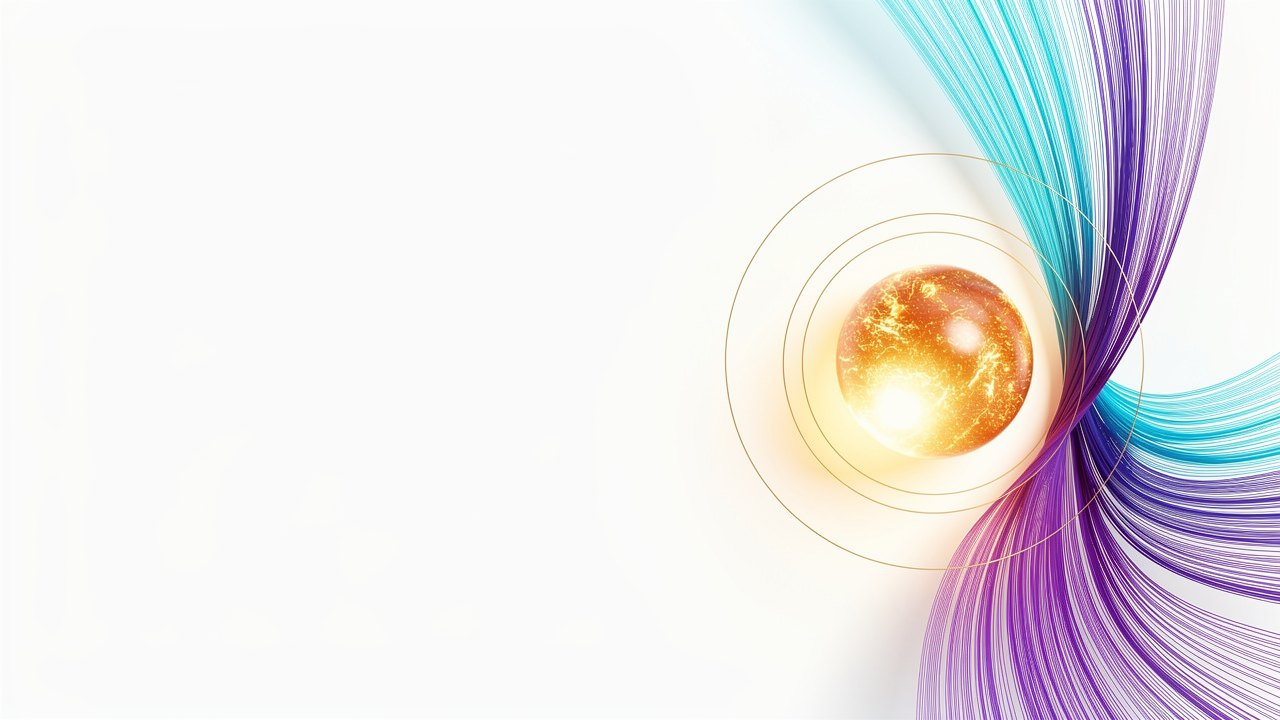
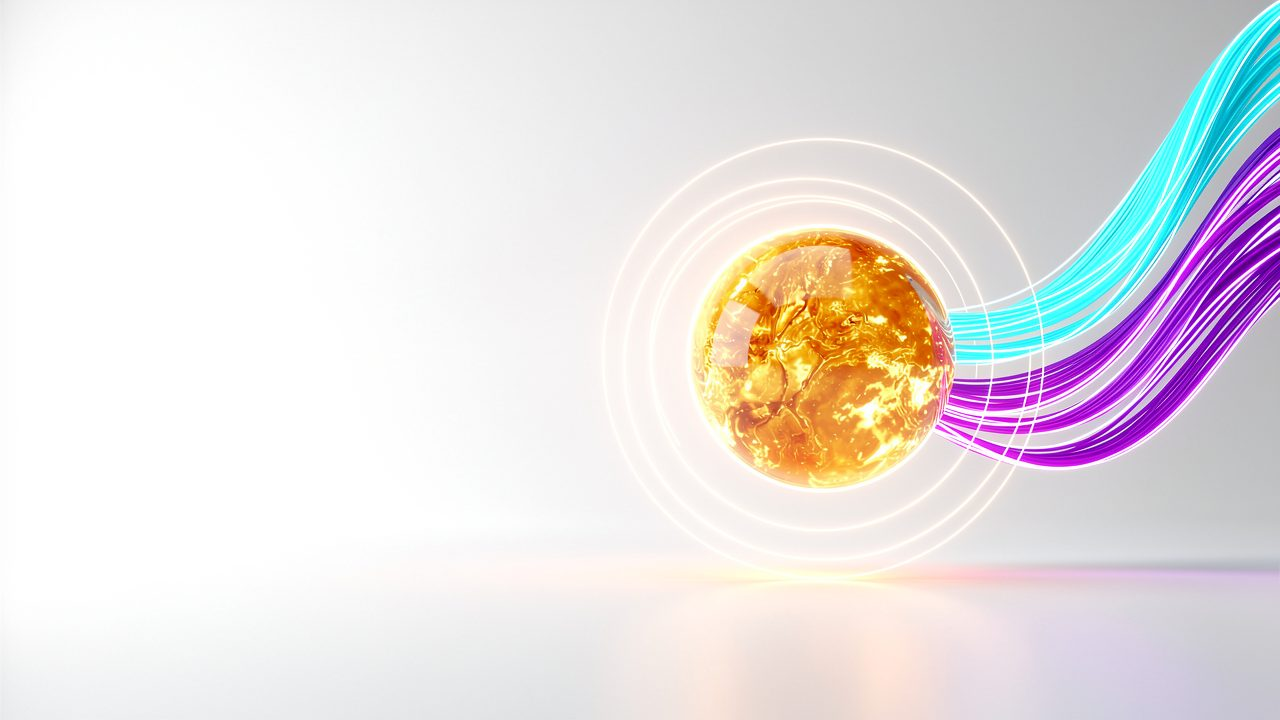
chore: publish site update

diff --git a/index.html b/index.html
@@ -250,39 +250,7 @@
         </div>
 
         <div class="conv-visual reveal" aria-hidden="true">
-          <svg class="conv-graph" viewBox="-80 0 840 320" aria-hidden="true" focusable="false">
-            <defs>
-              <linearGradient id="convOut" gradientUnits="userSpaceOnUse" x1="470" y1="160" x2="720" y2="230">
-                <stop offset="0" stop-color="#18C8E6"/><stop offset="1" stop-color="#5B4BDB"/>
-              </linearGradient>
-            </defs>
-            <g fill="none" stroke-linecap="round" stroke-linejoin="round">
-              <g class="edge-in" stroke="#475569" stroke-width="2.6">
-                <path pathLength="1" d="M120 40 L470 160"/>
-                <path pathLength="1" d="M120 100 L470 160"/>
-                <path pathLength="1" d="M120 160 L470 160"/>
-                <path pathLength="1" d="M120 220 L470 160"/>
-                <path pathLength="1" d="M120 280 L470 160"/>
-              </g>
-              <path class="edge-out" pathLength="1" d="M470 160 L720 230" stroke="url(#convOut)" stroke-width="4"/>
-              <path class="edge-out arrow" pathLength="1" d="M720 230 L709.2 218.2 M720 230 L704.6 234.5" stroke="#5B4BDB" stroke-width="4"/>
-            </g>
-            <g class="conv-labels mono">
-              <text x="104" y="44" text-anchor="end" data-i18n="conv_l1">AUTOMATION</text>
-              <text x="104" y="104" text-anchor="end" data-i18n="conv_l2">INTEGRATION</text>
-              <text x="104" y="164" text-anchor="end" data-i18n="conv_l3">AI AGENTS</text>
-              <text x="104" y="224" text-anchor="end" data-i18n="conv_l4">ANALYTICS</text>
-              <text x="104" y="284" text-anchor="end" data-i18n="conv_l5">OPTIMIZATION</text>
-              <text x="612" y="210" text-anchor="start" class="label-out" data-i18n="conv_lout">FLOW OF VALUE</text>
-            </g>
-            <g class="node-in" fill="#475569">
-              <circle cx="120" cy="40" r="7"/><circle cx="120" cy="100" r="7"/><circle cx="120" cy="160" r="7"/>
-              <circle cx="120" cy="220" r="7"/><circle cx="120" cy="280" r="7"/>
-            </g>
-            <circle class="node-halo" cx="470" cy="160" r="34" fill="none" stroke="#FFB23E" stroke-width="1.4" opacity="0.32"/>
-            <circle class="node-core" cx="470" cy="160" r="24" fill="#FFB23E"/>
-            <circle class="node-spark" cx="470" cy="160" r="9" fill="#FFE0A8"/>
-          </svg>
+          <img src="assets/nova-flow.jpg" alt="" width="1280" height="720" loading="lazy" decoding="async">
         </div>
       </div>
     </section>
@@ -300,13 +268,13 @@
           <li class="case-card reveal">
             <p class="case-tag mono" data-i18n="case1_tag">MULTI-AGENT · OPERATIONS</p>
             <h3 data-i18n="case1_t">An operations department that never sleeps</h3>
-            <p data-i18n="case1_p">Corina AI runs 12+ specialized agents 24/7 — ticket triage, technician dispatch, billing and customer comms across WhatsApp, Telegram, voice and email — for a managed-print fleet of 3,000+ devices.</p>
+            <p data-i18n="case1_p">Our multi-agent platform runs 12+ specialized agents 24/7 — ticket triage, technician dispatch, billing and customer comms across WhatsApp, Telegram, voice and email — for a managed-print fleet of 3,000+ devices.</p>
             <p class="case-metric" data-i18n-html="case1_m"><strong>99.4%</strong> automated reconciliation across 23,000+ legacy invoices</p>
           </li>
           <li class="case-card reveal">
             <p class="case-tag mono" data-i18n="case2_tag">VOICE AI · TELEPHONY</p>
             <h3 data-i18n="case2_t">AI receptionists on real phone lines</h3>
-            <p data-i18n="case2_p">VoxAI answers business lines for logistics, HVAC and healthcare clients — bilingual EN/ES agents with multi-destination PBX routing, guardrails and post-call actions. Provider migration with zero reported downtime.</p>
+            <p data-i18n="case2_p">Our voice AI agents answer business lines for logistics, HVAC and healthcare clients — bilingual EN/ES agents with multi-destination PBX routing, guardrails and post-call actions. Provider migration with zero reported downtime.</p>
             <p class="case-metric" data-i18n-html="case2_m"><strong>4+</strong> live lines · bilingual EN/ES · 24/7</p>
           </li>
           <li class="case-card reveal">
@@ -412,28 +380,28 @@
         <header class="section-head reveal">
           <p class="kicker" data-i18n="port_kicker">Portfolio</p>
           <h2 id="portfolio-title" data-i18n="port_title">Our products run on the same flow.</h2>
-          <p class="section-lede" data-i18n="port_lede">We don't only build for clients — we run our own platforms on the same automated flow, as named nodes under the NovAIFlow umbrella.</p>
+          <p class="section-lede" data-i18n="port_lede">We don't only build for clients — we run these platforms ourselves on the same automated flow, and offer them directly to you.</p>
         </header>
 
         <ul class="node-grid" role="list">
           <li class="node-card reveal">
             <span class="node-dot" aria-hidden="true"></span>
-            <h3>Corina AI</h3>
+            <h3 data-i18n="port1_t">AI Operations Platform</h3>
             <p data-i18n="port1">A multi-agent platform — orchestrated intelligence for real operations.</p>
           </li>
           <li class="node-card reveal">
             <span class="node-dot" aria-hidden="true"></span>
-            <h3>VoxAI</h3>
+            <h3 data-i18n="port2_t">Voice AI Agents</h3>
             <p data-i18n="port2">Enterprise voice agents — bilingual AI on real phone lines, in production.</p>
           </li>
           <li class="node-card reveal">
             <span class="node-dot" aria-hidden="true"></span>
-            <h3>XG Suite</h3>
+            <h3 data-i18n="port3_t">Logistics Control Tower</h3>
             <p data-i18n="port3">A logistics &amp; 3PL platform — control tower, CRM, comms and master data.</p>
           </li>
           <li class="node-card reveal">
             <span class="node-dot" aria-hidden="true"></span>
-            <h3>xpro.cloud</h3>
+            <h3 data-i18n="port4_t">Managed Cloud &amp; Hosting</h3>
             <p data-i18n="port4">The infrastructure &amp; hosting layer — operated, observed and secured.</p>
           </li>
         </ul>

diff --git a/styles.css b/styles.css
@@ -272,9 +272,9 @@ main:focus{outline:none}
 .conv-copy h2{font-size:clamp(1.8rem,3.6vw,2.7rem);margin-bottom:1.1rem}
 .conv-copy p{color:var(--nf-mist);margin-bottom:1rem}
 .conv-claim{font-size:var(--fs-xl);color:var(--nf-paper)}
-.conv-graph{width:100%;height:auto}
-.conv-labels text{fill:var(--nf-mist);font-family:var(--nf-font-mono);font-size:15px;letter-spacing:var(--tracking-label);font-weight:500}
-.conv-labels .label-out{fill:var(--nf-cyan)}
+.conv-visual img{width:100%;height:auto;display:block;
+  -webkit-mask-image:radial-gradient(88% 72% at 50% 50%,#000 30%,transparent 82%);
+  mask-image:radial-gradient(88% 72% at 50% 50%,#000 30%,transparent 82%)}
 
 /* ---------- Case studies ---------- */
 .cases{border-top:1px solid var(--nf-line-soft)}
@@ -371,25 +371,6 @@ html.js :where(.reveal){opacity:0;transform:translateY(22px);transition:opacity 
 .card-grid .reveal.in,.node-grid .reveal.in,.industry-grid .reveal.in,.flowline .reveal.in,
 .stat-band .reveal.in,.case-grid .reveal.in{transition-delay:var(--d,0ms)}
 
-/* SVG graph draw-in (triggered by .draw on the parent svg) */
-html.js :where(.edge-in path,.edge-out){stroke-dasharray:1;stroke-dashoffset:1;transition:stroke-dashoffset 1s var(--ease-flow)}
-html.js :where(.node-in circle,.node-halo,.node-core,.node-spark,.node-glow){opacity:0}
-.draw .edge-in path,.draw .edge-out{stroke-dashoffset:0}
-.draw .edge-in path:nth-child(1){transition-delay:.05s}
-.draw .edge-in path:nth-child(2){transition-delay:.13s}
-.draw .edge-in path:nth-child(3){transition-delay:.21s}
-.draw .edge-in path:nth-child(4){transition-delay:.29s}
-.draw .edge-in path:nth-child(5){transition-delay:.37s}
-.draw .edge-out{transition:stroke-dashoffset .8s var(--ease-flow);transition-delay:.6s}
-.draw .node-in circle{opacity:1;transition:opacity .5s var(--ease-flow)}
-.draw .node-glow{opacity:1;transition:opacity 1s var(--ease-flow) .55s}
-.draw .node-halo{opacity:.32;transition:opacity .6s var(--ease-flow) .55s}
-.draw .node-core{opacity:1;transition:opacity .5s var(--ease-flow) .55s}
-.draw .node-spark{opacity:1;transition:opacity .6s var(--ease-flow) .7s}
-html.js :where(.conv-labels){opacity:0;transition:opacity .6s var(--ease-flow) .5s}
-.draw .conv-labels{opacity:1}
-/* no-js: .node-halo keeps its inline opacity="0.32" SVG attribute — no extra rule needed */
-
 /* ============================================================
    Responsive
    ============================================================ */
@@ -409,7 +390,6 @@ html.js :where(.conv-labels){opacity:0;transition:opacity .6s var(--ease-flow) .
   .brand-word{font-size:var(--fs-base)}
   .proof-head{flex-direction:column;align-items:flex-start;gap:.35rem}
   .section-lede{font-size:var(--fs-base)}
-  .conv-labels text{font-size:13px}
   .stat-band{grid-template-columns:repeat(2,1fr)}
   /* vertical flowline: per-step connector segments (no overshoot) */
   .flowline{grid-template-columns:1fr;gap:0}
@@ -440,7 +420,4 @@ html.js :where(.conv-labels){opacity:0;transition:opacity .6s var(--ease-flow) .
   *,*::before,*::after{animation:none!important;transition:none!important}
   html .reveal{opacity:1;transform:none}
   html .plx,html [data-plx]{transform:none!important}
-  html .edge-in path,html .edge-out{stroke-dashoffset:0}
-  html .node-in circle,html .node-halo,html .node-core,html .node-spark,html .node-glow,html .conv-labels{opacity:1}
-  html .node-halo{opacity:.32}
 }

diff --git a/main.js b/main.js
@@ -47,17 +47,16 @@
       conv_title: 'Most firms sell you one tool. We deliver the whole flow.',
       conv_p: 'Point tools leave you exporting spreadsheets, stitching apps together and chasing data across systems. NovAIFlow unifies your systems, data and tasks into one automated, AI-powered flow — then keeps it running.',
       conv_claim: '<strong>Many systems in. One flow of value out.</strong>',
-      conv_l1: 'AUTOMATION', conv_l2: 'INTEGRATION', conv_l3: 'AI AGENTS', conv_l4: 'ANALYTICS', conv_l5: 'OPTIMIZATION', conv_lout: 'FLOW OF VALUE',
       case_kicker: 'Case studies',
       case_title: 'Real systems. Real operations. Running today.',
       case_lede: 'A selection of flows we designed, built and operate — on our own platforms and for clients in logistics, healthcare, compliance and SaaS.',
       case1_tag: 'MULTI-AGENT · OPERATIONS',
       case1_t: 'An operations department that never sleeps',
-      case1_p: 'Corina AI runs 12+ specialized agents 24/7 — ticket triage, technician dispatch, billing and customer comms across WhatsApp, Telegram, voice and email — for a managed-print fleet of 3,000+ devices.',
+      case1_p: 'Our multi-agent platform runs 12+ specialized agents 24/7 — ticket triage, technician dispatch, billing and customer comms across WhatsApp, Telegram, voice and email — for a managed-print fleet of 3,000+ devices.',
       case1_m: '<strong>99.4%</strong> automated reconciliation across 23,000+ legacy invoices',
       case2_tag: 'VOICE AI · TELEPHONY',
       case2_t: 'AI receptionists on real phone lines',
-      case2_p: 'VoxAI answers business lines for logistics, HVAC and healthcare clients — bilingual EN/ES agents with multi-destination PBX routing, guardrails and post-call actions. Provider migration with zero reported downtime.',
+      case2_p: 'Our voice AI agents answer business lines for logistics, HVAC and healthcare clients — bilingual EN/ES agents with multi-destination PBX routing, guardrails and post-call actions. Provider migration with zero reported downtime.',
       case2_m: '<strong>4+</strong> live lines · bilingual EN/ES · 24/7',
       case3_tag: 'MCP · AI CONNECTIVITY',
       case3_t: 'Your business systems, inside Claude and ChatGPT',
@@ -87,7 +86,11 @@
       step4_t: 'Integrate', step4_d: 'Wire it into your CRM, ERP, APIs and data.',
       step5_t: 'Optimize', step5_d: 'Measure, tune and keep improving — continuously.',
       port_kicker: 'Portfolio', port_title: 'Our products run on the same flow.',
-      port_lede: "We don't only build for clients — we run our own platforms on the same automated flow, as named nodes under the NovAIFlow umbrella.",
+      port_lede: "We don't only build for clients — we run these platforms ourselves on the same automated flow, and offer them directly to you.",
+      port1_t: 'AI Operations Platform',
+      port2_t: 'Voice AI Agents',
+      port3_t: 'Logistics Control Tower',
+      port4_t: 'Managed Cloud & Hosting',
       port1: 'A multi-agent platform — orchestrated intelligence for real operations.',
       port2: 'Enterprise voice agents — bilingual AI on real phone lines, in production.',
       port3: 'A logistics & 3PL platform — control tower, CRM, comms and master data.',
@@ -135,17 +138,16 @@
       conv_title: 'La mayoría te vende una herramienta. Nosotros entregamos el flujo completo.',
       conv_p: 'Las herramientas sueltas te dejan exportando hojas de cálculo, cosiendo apps y persiguiendo datos entre sistemas. NovAIFlow unifica tus sistemas, datos y tareas en un solo flujo automatizado con IA — y lo mantiene funcionando.',
       conv_claim: '<strong>Muchos sistemas entran. Un flujo de valor sale.</strong>',
-      conv_l1: 'AUTOMATIZACIÓN', conv_l2: 'INTEGRACIÓN', conv_l3: 'AGENTES IA', conv_l4: 'ANALÍTICA', conv_l5: 'OPTIMIZACIÓN', conv_lout: 'FLUJO DE VALOR',
       case_kicker: 'Casos de estudio',
       case_title: 'Sistemas reales. Operaciones reales. Corriendo hoy.',
       case_lede: 'Una selección de flujos que diseñamos, construimos y operamos — en nuestras propias plataformas y para clientes de logística, salud, compliance y SaaS.',
       case1_tag: 'MULTI-AGENTE · OPERACIONES',
       case1_t: 'Un departamento de operaciones que nunca duerme',
-      case1_p: 'Corina AI corre 12+ agentes especializados 24/7 — triaje de tickets, despacho de técnicos, facturación y comunicación con clientes por WhatsApp, Telegram, voz y email — para una flota gestionada de 3,000+ equipos.',
+      case1_p: 'Nuestra plataforma multi-agente corre 12+ agentes especializados 24/7 — triaje de tickets, despacho de técnicos, facturación y comunicación con clientes por WhatsApp, Telegram, voz y email — para una flota gestionada de 3,000+ equipos.',
       case1_m: '<strong>99.4%</strong> de conciliación automática en 23,000+ facturas legacy',
       case2_tag: 'VOZ IA · TELEFONÍA',
       case2_t: 'Recepcionistas IA en líneas telefónicas reales',
-      case2_p: 'VoxAI atiende líneas de negocio para clientes de logística, HVAC y salud — agentes bilingües EN/ES con enrutamiento a PBX multi-destino, guardrails y acciones post-llamada. Migración de proveedor sin downtime reportado.',
+      case2_p: 'Nuestros agentes de voz IA atienden líneas de negocio para clientes de logística, HVAC y salud — agentes bilingües EN/ES con enrutamiento a PBX multi-destino, guardrails y acciones post-llamada. Migración de proveedor sin downtime reportado.',
       case2_m: '<strong>4+</strong> líneas en vivo · bilingüe EN/ES · 24/7',
       case3_tag: 'MCP · CONECTIVIDAD IA',
       case3_t: 'Tus sistemas de negocio, dentro de Claude y ChatGPT',
@@ -175,7 +177,11 @@
       step4_t: 'Integrar', step4_d: 'Cablearlo a tu CRM, ERP, APIs y datos.',
       step5_t: 'Optimizar', step5_d: 'Medir, ajustar y seguir mejorando — continuamente.',
       port_kicker: 'Portafolio', port_title: 'Nuestros productos corren sobre el mismo flujo.',
-      port_lede: 'No solo construimos para clientes — operamos nuestras propias plataformas sobre el mismo flujo automatizado, como nodos con nombre bajo el paraguas NovAIFlow.',
+      port_lede: 'No solo construimos para clientes — operamos estas plataformas nosotros mismos sobre el mismo flujo automatizado, y te las ofrecemos directamente.',
+      port1_t: 'Plataforma de Operaciones IA',
+      port2_t: 'Agentes de Voz IA',
+      port3_t: 'Torre de Control Logística',
+      port4_t: 'Nube Gestionada & Hosting',
       port1: 'Plataforma multi-agente — inteligencia orquestada para operaciones reales.',
       port2: 'Agentes de voz empresariales — IA bilingüe en líneas telefónicas reales, en producción.',
       port3: 'Plataforma de logística y 3PL — torre de control, CRM, comunicaciones y datos maestros.',